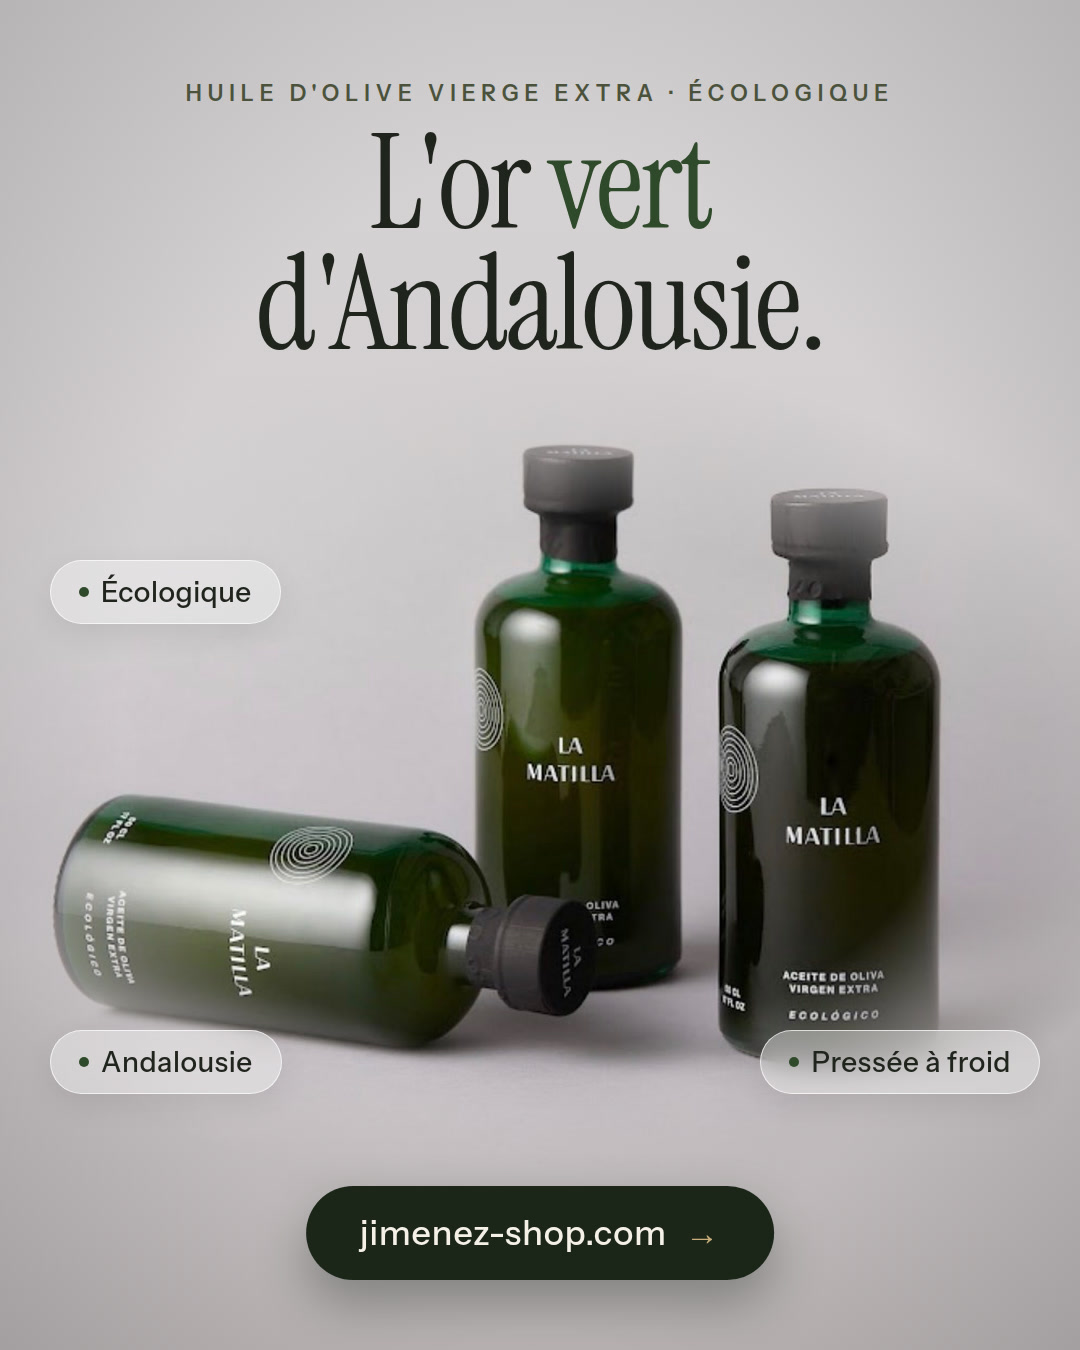
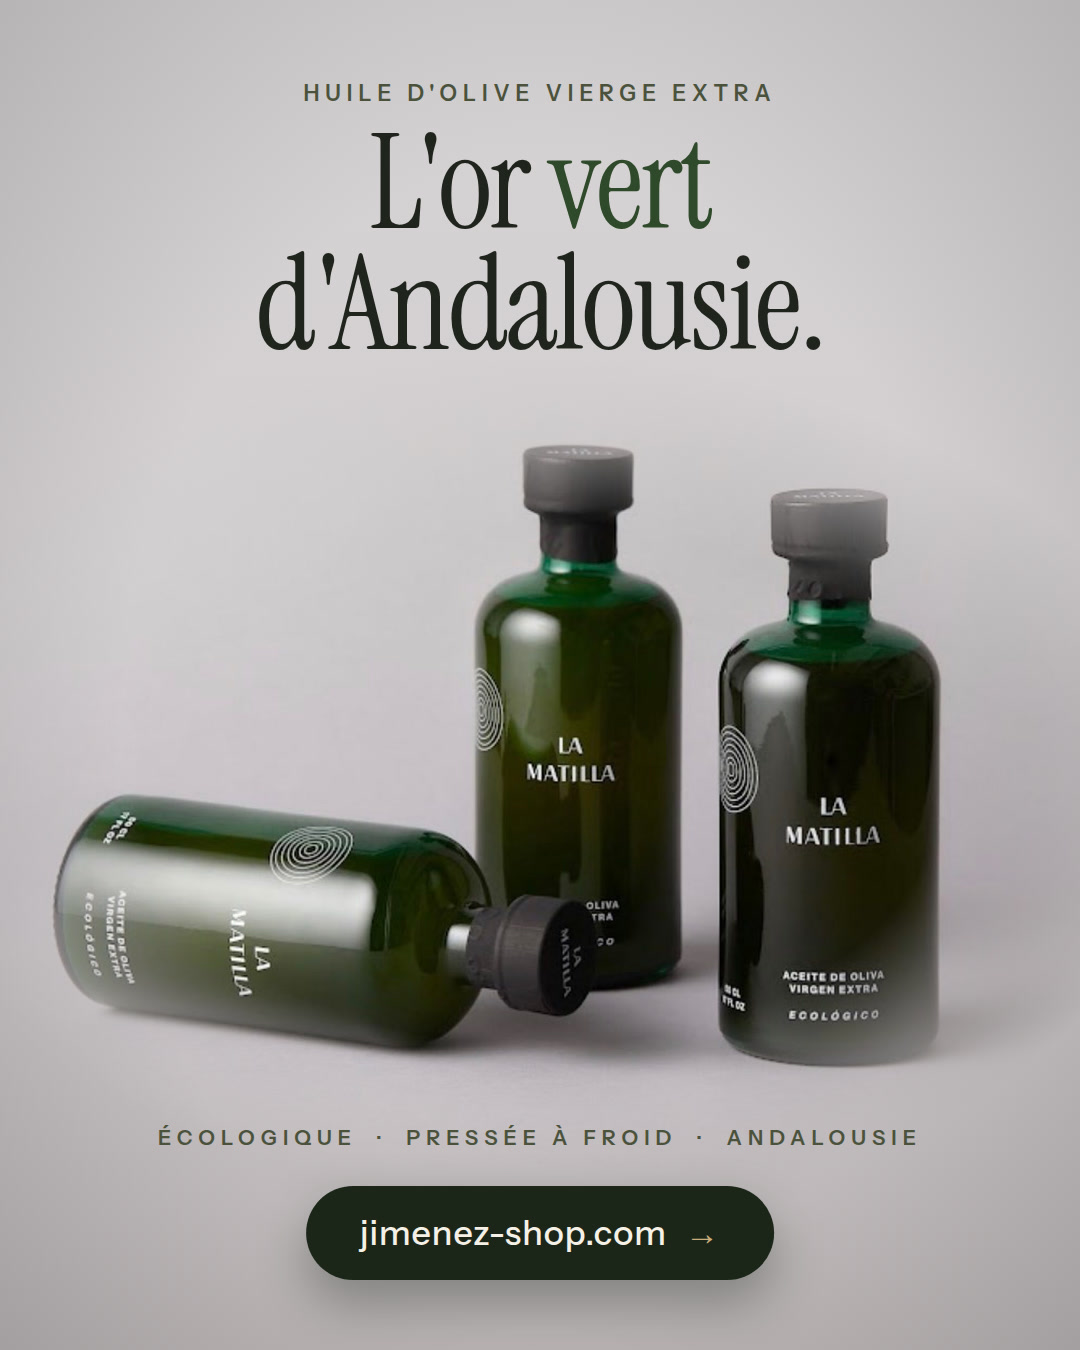
Publication écologique : sans pastilles, mentions en une ligne
Claude-Session: https://claude.ai/code/session_01UiVtPwDdPsmKbNcFJesaT8

diff --git a/instagram/video-source/bio3.html b/instagram/video-source/bio3.html
@@ -20,11 +20,9 @@ body{font-family:"Instrument Sans",sans-serif;color:var(--ink)}
  <img class="ph" src="hq/bio.jpg" style="left:-110px;top:360px;width:1300px;height:847px;object-position:50% 50%">
  <div class="vig"></div>
  <div style="position:absolute;left:0;right:0;top:80px;text-align:center">
-  <div class="k" style="color:var(--olive)">Huile d'olive vierge extra · Écologique</div>
+  <div class="k" style="color:var(--olive)">Huile d'olive vierge extra</div>
   <div class="T" style="font-size:132px;margin-top:16px">L'or <span style="color:#2F4A2A">vert</span><br>d'Andalousie.</div></div>
- <div class="pill" style="left:50px;top:560px;background:var(--cream)"><i style="background:var(--gold);color:var(--cream)">✓</i>Écologique</div>
- <div class="pill" style="right:40px;top:1030px;background:var(--gold)"><i style="background:var(--ink);color:var(--gold2)">✓</i>Pressée à froid</div>
- <div class="pill" style="left:50px;top:1030px;background:var(--deep);color:var(--cream)"><i style="background:var(--gold2);color:var(--deep)">✓</i>Andalousie</div>
+ <div class="k" style="position:absolute;left:0;right:0;bottom:200px;text-align:center;color:var(--olive);font-size:21px">Écologique &nbsp;·&nbsp; Pressée à froid &nbsp;·&nbsp; Andalousie</div>
  <div class="cta" style="bottom:70px">jimenez-shop.com <span>→</span></div>
 </div>
 
